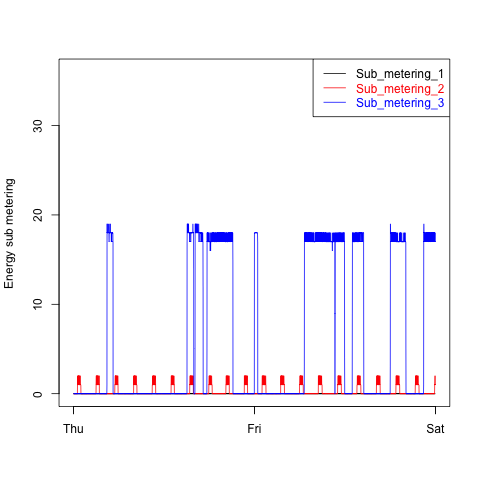
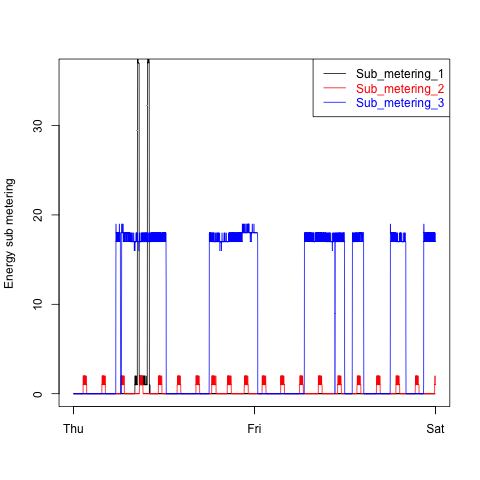
fixed a silly mdy -> dmy mistake

Changed region(s): [[0.1562, 0.125, 0.5312, 0.8438]]

diff --git a/README.md b/README.md
@@ -1,7 +1,7 @@
 ## Exploratory Data Analysis - Week 1 Assignment
 
 ### Introduction
-Hello, fellow student. I'm right off the bat going to confess that there's something different in my data than in the examples. The Fridays look the same as in the examples, but the Thursdays look different. I've no idea why, maybe you can point this out in the comments, if you've figured that out.
+Hello, fellow student.
 
 ### Scripts
 As a computer scientist I loathe this, but all the common code is just copy pasted into every script, because that's basically what the instructions stated. So there's plot1.R, ..., plot4.R, and the corresponding plot1.png, ..., plot4.png. I think the plots are pretty close to the target ones, especially given the discrepancy in the data.
